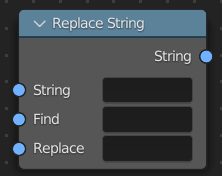
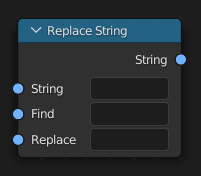
Geometry Nodes: Complete documentation in text category
Add two example images, and more detail to the string to curves page.

git-svn-id: https://svn.blender.org/svnroot/bf-manual/trunk@8547 c4de1f47-6596-e411-a384-0024e86c2797

diff --git a/blender_docs/manual/modeling/geometry_nodes/text/string_to_curves.rst b/blender_docs/manual/modeling/geometry_nodes/text/string_to_curves.rst
@@ -10,8 +10,19 @@ String to Curves Node
 
    String to Curves node.
 
-The *String to Curves* converts a string to curve geometry.
+The *String to Curves* converts a string to curve instances. Each unique character used in the string
+is converted to a curve once, and further uses of that character are more instances of the same geometry.
 
+This makes processing the output geometry very efficient, because each unique character only has to
+be processed once. However, it means that the result will be the same for every instance of the
+same character. To process each character individually,
+the :doc:`/modeling/geometry_nodes/instances/realize_instances` can be used.
+
+
+.. tip::
+
+   :doc:`Socket inspection </modeling/geometry_nodes/inspection>` can be used to see the value
+   of the string input used when the node was evaluated, by holding the mouse over the socket.
 
 Inputs
 ======
@@ -20,19 +31,25 @@ String
    Standard string input.
 
 Size
-   Size of the curve.
+   The size of each character. The values of the other inputs are scaled by this value.
 
 Character Spacing
-   A factor by which space between each character (kerning) is scaled in width.
+   A factor by which the space between each character (kerning) is scaled on the X axis.
 
 Word Spacing
-   A factor by which white-space between words is scaled in width.
+   A factor by which white-space between words is scaled on the X axis.
 
 Line Spacing
-   A factor by which the vertical space between lines is scaled.
+   The distance between separate lines in the output. Scaled by the *Size* input.
 
 Max Width
-   Maximum width of the text
+   Maximum width of the text, applies when the *Overflow* mode is set to *Overflow*.
+
+Text Box Width
+   The maximum width of each line, though individual words will not be wrapped.
+
+Text Box Height
+   The maximum height for all the lines of the text.
 
 
 Properties
@@ -42,9 +59,14 @@ Font
    Font glyph used to generate the curve.
 
 Overflow
-   :Overflow: Allows the text to use more space than the specified height.
-   :Scale To Fit: Scales the text size to fit the width and height.
-   :Truncate: Only outputs curves that fit within the width and height.
+   :Overflow:
+      Allows the text to use more space than the specified height. The width of the output is
+      still constrained by the *Max Width* input though.
+   :Scale To Fit:
+      Scales the text size to fit the width and height.
+   :Truncate: 
+      Only outputs text characters that fit within the width and height, based on the *Size* input.
+      Any part of the string that did not fit is moved to the *Remainder* output.
 
 Alignment
    :Left: Aligns the text to the left.
@@ -65,4 +87,18 @@ Outputs
 =======
 
 Curves
-   Generated curve.
+   Curve instances geometry.
+
+Remainder
+   The part of the text that did not fit in the box described by the *Text Box Height* and
+   *Text Box Width* inputs. Only used in the *Truncate* overflow mode.
+
+Examples
+========
+
+.. figure:: /images/modeling_geometry-nodes_text_string-to-curves_example.png
+   :align: center
+
+The node can be used to make overflowing text boxes. Here, the text that 
+does not fit into the first node's hard-coded text box is passed to a
+separate string to curves node and added with a scale to fit node.

diff --git a/blender_docs/manual/modeling/geometry_nodes/text/special_characters.rst b/blender_docs/manual/modeling/geometry_nodes/text/special_characters.rst
@@ -15,9 +15,10 @@ The *Special Characters* node is used to output string characters that can't be 
 
 .. tip::
 
-   This node can be used to create a multiline string for
-   the :doc:`String to Curves </modeling/geometry_nodes/text/string_to_curves>` node,
-   when combined with the :doc:`Join Strings </modeling/geometry_nodes/text/join_strings>` node.
+   This node can be used to create a multi-line string for
+   the :doc:`/modeling/geometry_nodes/text/string_to_curves`,
+   when combined with the :doc:`/modeling/geometry_nodes/text/join_strings`
+   or the :doc:`/modeling/geometry_nodes/text/replace_string`.
 
 
 Inputs

diff --git a/blender_docs/manual/modeling/geometry_nodes/text/join_strings.rst b/blender_docs/manual/modeling/geometry_nodes/text/join_strings.rst
@@ -15,10 +15,10 @@ The order of the result depends on the vertical ordering of the inputs in the mu
 
 .. tip::
 
-   This node can be used to create a multiline string for
-   the :doc:`String to Curves </modeling/geometry_nodes/text/string_to_curves>` node,
+   This node can be used to create a multi-line string for
+   the :doc:`/modeling/geometry_nodes/text/string_to_curves`,
    when combined with the line break output from
-   the :doc:`Special Characters </modeling/geometry_nodes/text/special_characters>` node.
+   the :doc:`/modeling/geometry_nodes/text/special_characters`.
 
 
 Inputs

diff --git a/blender_docs/manual/modeling/geometry_nodes/text/replace_string.rst b/blender_docs/manual/modeling/geometry_nodes/text/replace_string.rst
@@ -6,7 +6,7 @@ Replace String Node
 *******************
 
 .. figure:: /images/modeling_geometry-nodes_text_replace-string_node.png
-   :align: center
+   :align: right
 
    The Replace String node.
 
@@ -37,3 +37,12 @@ Outputs
 
 String
    Standard string output.
+
+
+Examples
+========
+
+.. figure:: /images/modeling_geometry-nodes_text_replace-string_example.png
+   :align: center
+
+   Using the node to add the new-line character to a string.
